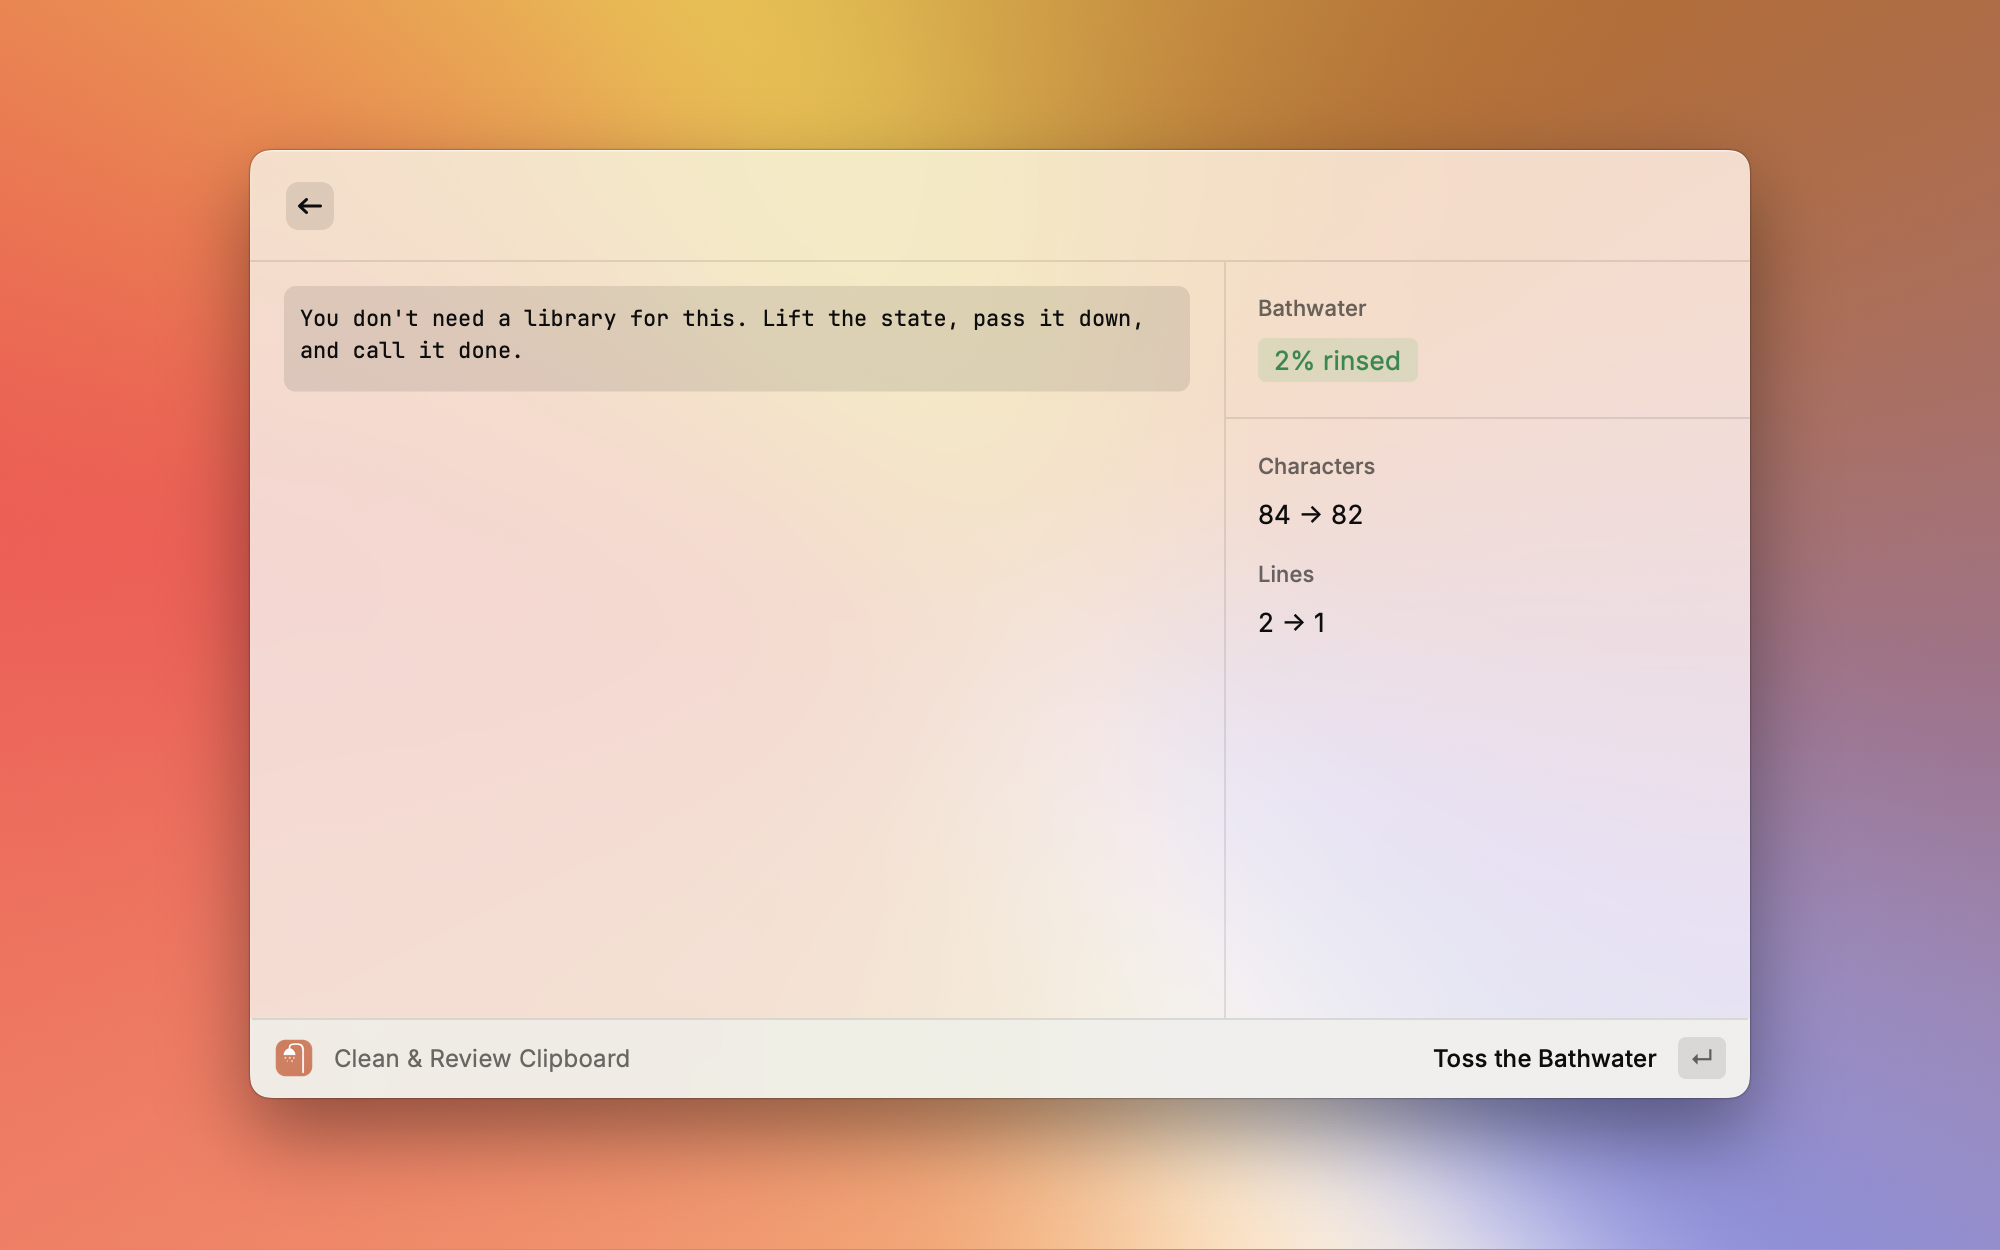
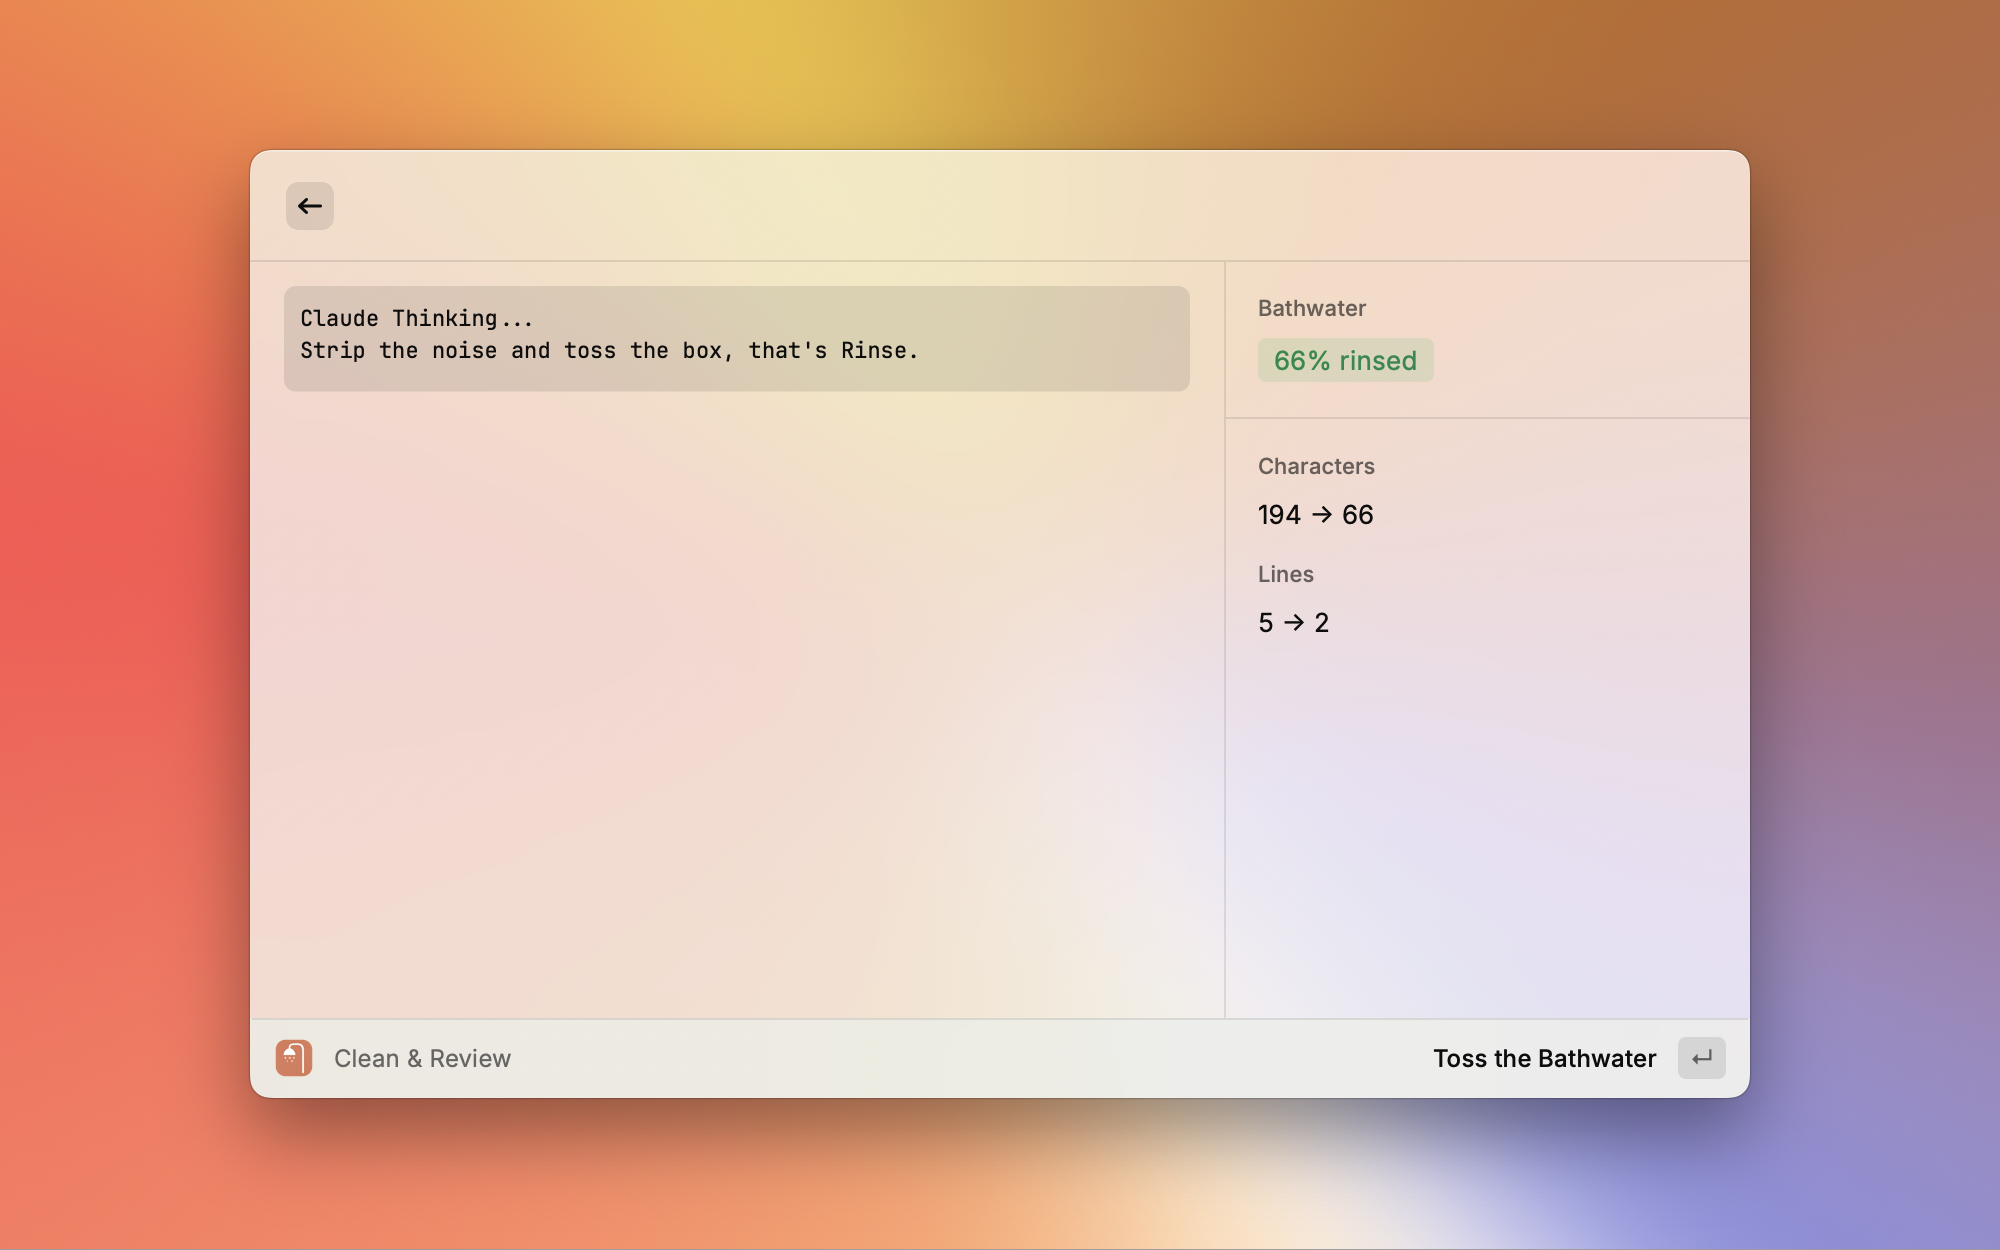
docs: update README copy and screenshots

diff --git a/README.md b/README.md
@@ -2,38 +2,34 @@
 
 > Rinse the Claude off your clipboard.
 
-A [Raycast](https://raycast.com) extension.
+A [Raycast](https://raycast.com) extension that strips AI CLI formatting artifacts — ANSI codes, box-drawing characters, spinner noise, soft-wrapped lines — from whatever you just copied out of your terminal.
 
-You copy Claude's response out of your terminal. It's wrapped at 80 characters with a two-space indent on the continuation:
-
-```txt
-You don't need a library for this. Lift the state, pass it down, and call it
-  done.
-```
-
-Rinse joins and strips it:
+Claude answered your question. The answer is good. The packaging is not:
 
 ```txt
-You don't need a library for this. Lift the state, pass it down, and call it done.
+╭─ Claude ───────────────────────────╮
+│ ⠹ Thinking...                      │
+│ Strip the noise and toss the       │
+│   box, that's Rinse.               │
+╰────────────────────────────────────╯
 ```
 
-Or it's full AI CLI output with box-drawing and spinner noise:
+Or it word-wrapped at 80 columns with an indent on the continuation:
 
 ```txt
-╭─ Claude ──────────────────────╮
-│ ⠹ Thinking...                 │
-│ Just use a hook. You're done. │
-╰───────────────────────────────╯
+Strip the noise and rejoin the
+  lines, that's Rinse.
 ```
 
-Becomes:
+Rinse takes the baby, tosses the bathwater:
 
 ```txt
-Claude Thinking...
-Just use a hook. You're done.
+Strip the noise and toss the box, that's Rinse.
 ```
 
-Copy. Clean. Paste. Done.
+```txt
+Strip the noise and rejoin the lines, that's Rinse.
+```
 
 ## Install
 
@@ -44,23 +40,19 @@ Copy. Clean. Paste. Done.
 
 ## Commands
 
-### Clean Clipboard
+### Clean & Copy
 
-Silent and instant. Reads your clipboard, strips the noise, writes it back. You get a quick HUD confirmation and move on. No windows, no friction.
+Reads your clipboard, strips the noise, writes it back. Silent, instant, no window. A HUD flash tells you how much was rinsed, and you're back to what you were doing.
 
-> **"So fresh and so clean, clean."**
+### Clean & Paste
 
-### Clean & Paste Clipboard
+Same as Clean & Copy, but skips the clipboard. The cleaned text lands directly where your cursor is. Copy from Claude, trigger the command, paste is already done.
 
-Cleans your clipboard and pastes the result directly into the focused app in one shot. No intermediate step. Copy Claude's output, trigger the command, and clean text lands where your cursor is.
+### Clean & Review
 
-> **"Straight bougie!"**
+Opens a preview of the cleaned result before you commit. The sidebar shows character counts, line counts, and reduction percentage. One action copies it to your clipboard when you're ready.
 
-### Clean & Review Clipboard
-
-Opens a preview of the cleaned result before committing. The sidebar shows exactly how much was removed: character counts, line counts, reduction percentage. When you're happy, one action copies it to your clipboard.
-
-> **"Confirm the baby. Toss the bathwater."**
+> Confirm the baby. Toss the bathwater.
 
 ## What Gets Cleaned
 
@@ -88,6 +80,6 @@ Rinse is careful not to over-clean. It preserves:
 
 ## Tips
 
-- Assign a hotkey to **Clean Clipboard** (`Cmd+Shift+C`) to clean without opening Raycast.
+- Assign a hotkey to **Clean & Copy** (`Cmd+Shift+C`) to clean without opening Raycast.
 - Assign a hotkey to **Clean & Paste** (`Cmd+Shift+V`) to replace your paste with a clean paste.
 - Use **Clean & Review** when you want to see the diff before committing.
